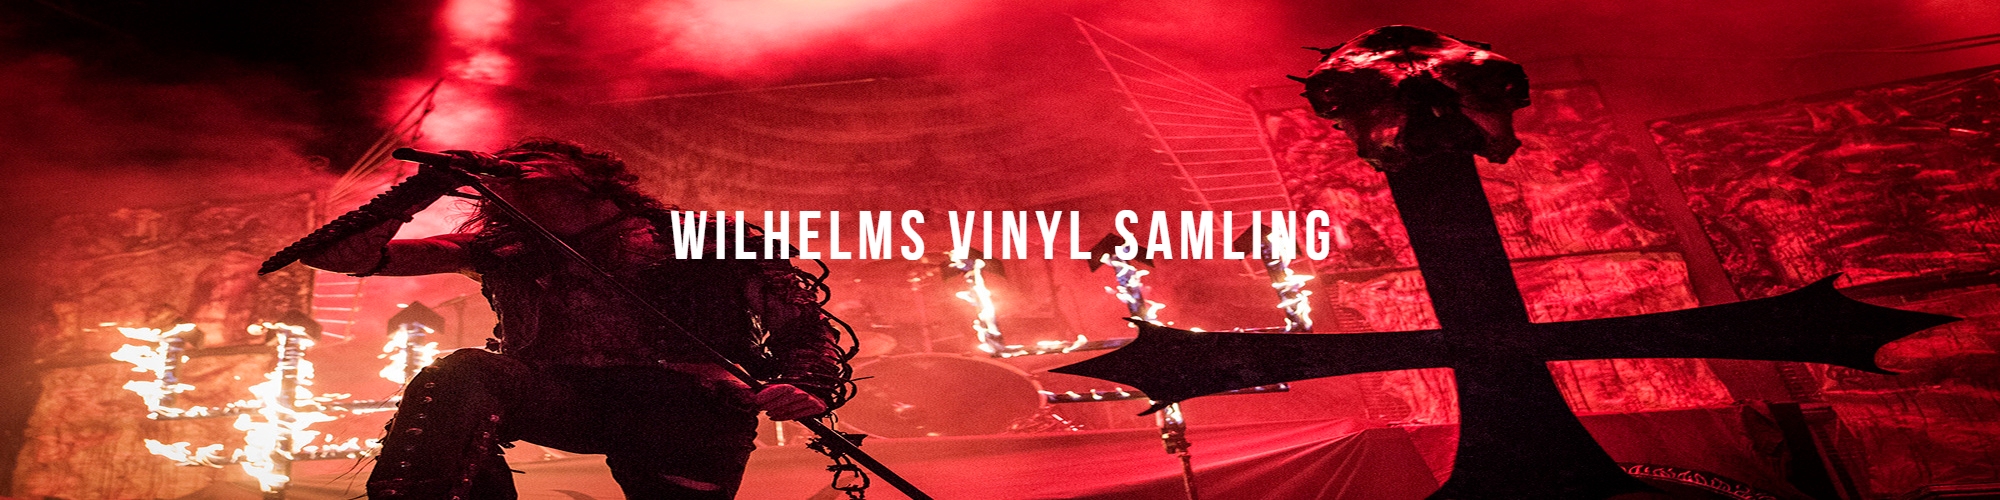
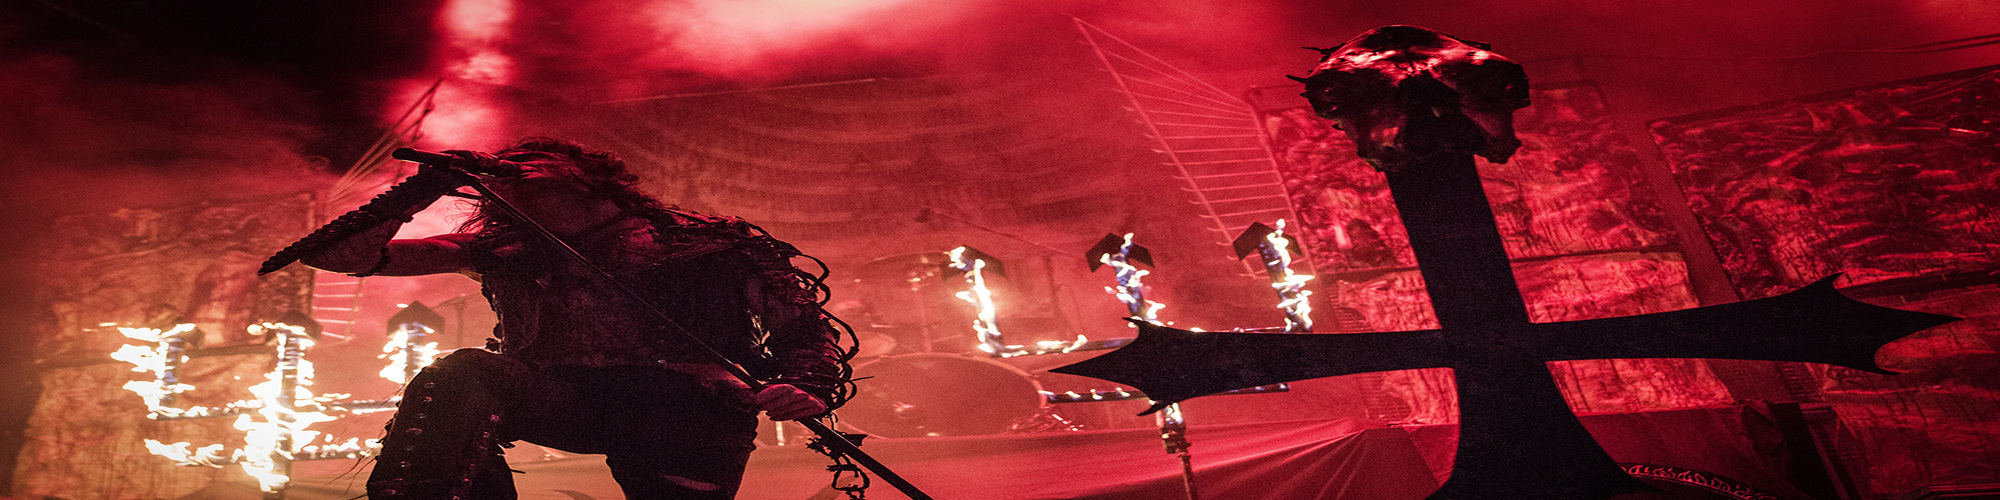
Sista pushen. Tack för den roliga kursen Martin!

diff --git a/loginsuccess.html b/loginsuccess.html
@@ -1,0 +1,70 @@
+<!DOCTYPE html>
+<html lang="en">
+<head>
+    <meta charset="UTF-8" />
+    <meta http-equiv="X-UA-Compatible" content="IE=edge" />
+    <meta name="viewport" content="width=device-width, initial-scale=1.0" />
+    <link rel="preconnect" href="https://fonts.googleapis.com" />
+    <link rel="preconnect" href="https://fonts.gstatic.com" crossorigin />
+    <link
+      href="https://fonts.googleapis.com/css2?family=Roboto+Condensed&display=swap"
+      rel="stylesheet"
+    />
+    <link rel="stylesheet" href="/CSS/style.css" />
+    <link rel="stylesheet" href="/CSS/fonts.css" />
+
+    <title>Huvudsida</title>
+    <link rel="shortcut icon" href="/IMG/Logotyp2.png" type="image/x-icon" />
+</head>
+<body class="login-success">
+    <header class="top-nav">
+        <div>
+          <a href="hemsida.html">
+            <img
+              src="/IMG/Logotyp2.png"
+              class="logo logo-logotyp"
+              alt="Logotyp Hemsida"
+            />
+          </a>
+        </div>
+        <div>
+          <a href="shoppingcart.html">
+            <img
+              src="/IMG/cart-icon-png-white-11.jpg"
+              class="logo logo-cart"
+              alt="Shopping cart logo"
+            />
+          </a>
+        </div>
+        <div>
+          <a id="center" href="login.html">
+            <img
+              src="/IMG/download.png"
+              class="logo logo-login"
+              alt="Login logo"
+            />
+          </a>
+        </div>
+        <input id="menu-toggle" type="checkbox" />
+        <label class="menu-button-container" for="menu-toggle">
+          <div class="menu-button"></div>
+        </label>
+        <ul class="menu">
+          <li class="stil1 text-shadow">
+            <a href="hemsida.html" title="HEMSIDA">HEMSIDA</a>
+          </li>
+          <li class="stil1 text-shadow">
+            <a href="sortiment.html" title="SORTIMENT">SORTIMENT</a>
+          </li>
+  
+          <li class="stil1 text-shadow">
+            <a href="information.html" title="INFORMATION">INFORMATION</a>
+          </li>
+  
+          <i class="icon-shopping-cart"></i>
+        </ul>
+      </header>
+
+      <h1 id="center" class="lyckorubrik text-shadow">DU HAR LOGGAT IN</h1>
+</body>
+</html>

diff --git a/CSS/style.css b/CSS/style.css
@@ -9,6 +9,25 @@ body {
   margin: 0 0 0 0;
 }
 
+.login-success{
+  background: linear-gradient(-45deg, #ff0000, #ff7300, #fbff00, #3cff00, rgb(0, 255, 200),rgb(0, 174, 255) , rgb(0, 47, 255),rgb(162, 2, 255));
+  background-size: 400% 400%;
+  animation: gradient 10s ease infinite;
+  height: 95vh;
+}
+
+@keyframes gradient {
+  0% {
+    background-position: 0% 50%;
+  }
+  50% {
+    background-position: 100% 50%;
+  }
+  100% {
+    background-position: 0% 50%;
+  }
+}
+
 
 /* LOGGA + KOLUMNER*/
 
@@ -51,23 +70,16 @@ body {
 }
 
 /* HUVUDSIDAN */
-#Bild-Slider {
+.bild-slider {
   margin: 0;
   opacity: 1;
   display: block;
   text-align: center;
-  padding-bottom: 64px;
-}
-.slider-bild {
-  width: 100%;
+  padding-bottom: px;
   height: 500px;
+  background-image: url(/IMG/gettyimages-506033809_2000x500.jpg);
 }
-.slider-titel {
-  position: absolute;
-  top: 20%;
-  left: 45%;
-  right: 45%;
-}
+
 
 .långbild-container {
   height: 500px;
@@ -406,9 +418,7 @@ input[type="text"]:focus {
   .långbild {
     width: 800px;
   }
-  .slider-bild {
-    height: 400px;
-  }
+
 }
 @media (max-width: 800px) {
   .långbild {
@@ -418,9 +428,6 @@ input[type="text"]:focus {
 @media (max-width: 700px) {
   .långbild {
     width: 600px;
-  }
-  .slider-bild {
-    height: 300px;
   }
 }
 @media (max-width: 600px) {
@@ -432,16 +439,10 @@ input[type="text"]:focus {
   .långbild {
     width: 420px;
   }
-  .slider-bild {
-    height: 200px;
-  }
 }
 @media (max-width: 400px) {
   .långbild {
     width: 380px;
-  }
-  .slider-bild {
-    height: 200px;
   }
 }
 

diff --git a/login.html b/login.html
@@ -11,7 +11,6 @@
       rel="stylesheet"
     />
     <link rel="stylesheet" href="/CSS/style.css" />
-    <link rel="stylesheet" href="topnav.css" />
     <link rel="stylesheet" href="/CSS/fonts.css" />
     <title>Sortiment Vinyler</title>
     <link rel="shortcut icon" href="/IMG/Logotyp2.png" type="image/x-icon" />
@@ -66,7 +65,7 @@
     </header>
 
     <div class="formulär">
-      <form action="hemsida.html">
+      <form action="loginsuccess.html">
         <label for="Ruta1" class="formulärtext">Användarnamn:</label><br />
         <input type="text" id="Ruta1" class="textruta , formulärtext" /><br />
 

diff --git a/hemsida.html b/hemsida.html
@@ -11,7 +11,6 @@
       rel="stylesheet"
     />
     <link rel="stylesheet" href="/CSS/style.css" />
-    <link rel="stylesheet" href="topnav.css" />
     <link rel="stylesheet" href="/CSS/fonts.css" />
 
     <title>Huvudsida</title>
@@ -65,8 +64,8 @@
       </ul>
     </header>
 
-    <div id="Bild-Slider">
-      <img src="/IMG/gettyimages-506033809_2000x500.jpg" class="slider-bild" />
+    <div class="bild-slider">
+      <h1 class="huvudrubrik">WILHELMS VINYL SORTIMENT</h1>
     </div>
 
     <div class="långbild-container , sektion , group">

diff --git a/shoppingcart.html b/shoppingcart.html
@@ -12,7 +12,6 @@
       rel="stylesheet"
     />
     <link rel="stylesheet" href="/CSS/style.css" />
-    <link rel="stylesheet" href="topnav.css" />
     <link rel="stylesheet" href="/CSS/fonts.css" />
     <title>Sortiment Vinyler</title>
     <link rel="shortcut icon" href="/IMG/Logotyp2.png" type="image/x-icon" />

diff --git a/sortiment.html b/sortiment.html
@@ -12,7 +12,6 @@
       rel="stylesheet"
     />
     <link rel="stylesheet" href="/CSS/style.css" />
-    <link rel="stylesheet" href="topnav.css" />
     <link rel="stylesheet" href="/CSS/fonts.css" />
     <title>Sortiment Vinyler</title>
     <link rel="shortcut icon" href="Logotyp2.png" type="image/x-icon" />

diff --git a/information.html b/information.html
@@ -11,7 +11,6 @@
       rel="stylesheet"
     />
     <link rel="stylesheet" href="/CSS/style.css" />
-    <link rel="stylesheet" href="topnav.css" />
     <link rel="stylesheet" href="/CSS/fonts.css" />
     <title>Huvudsida</title>
     <link rel="shortcut icon" href="/IMG/Logotyp2.png" type="image/x-icon" />

diff --git a/CSS/fonts.css b/CSS/fonts.css
@@ -21,7 +21,17 @@ text-decoration: 0;
   font-size: 15px;
 }
 
+.huvudrubrik{
+  font-size: 50px;
+  padding-top: 250px;
+  color:white;
+  margin:0px;
+}
 
+.lyckorubrik{
+  font-size: 90px;
+  color:rgb(0, 0, 0);
+}
 .rubrik {
   color: grey;
   font-size: 30px;
